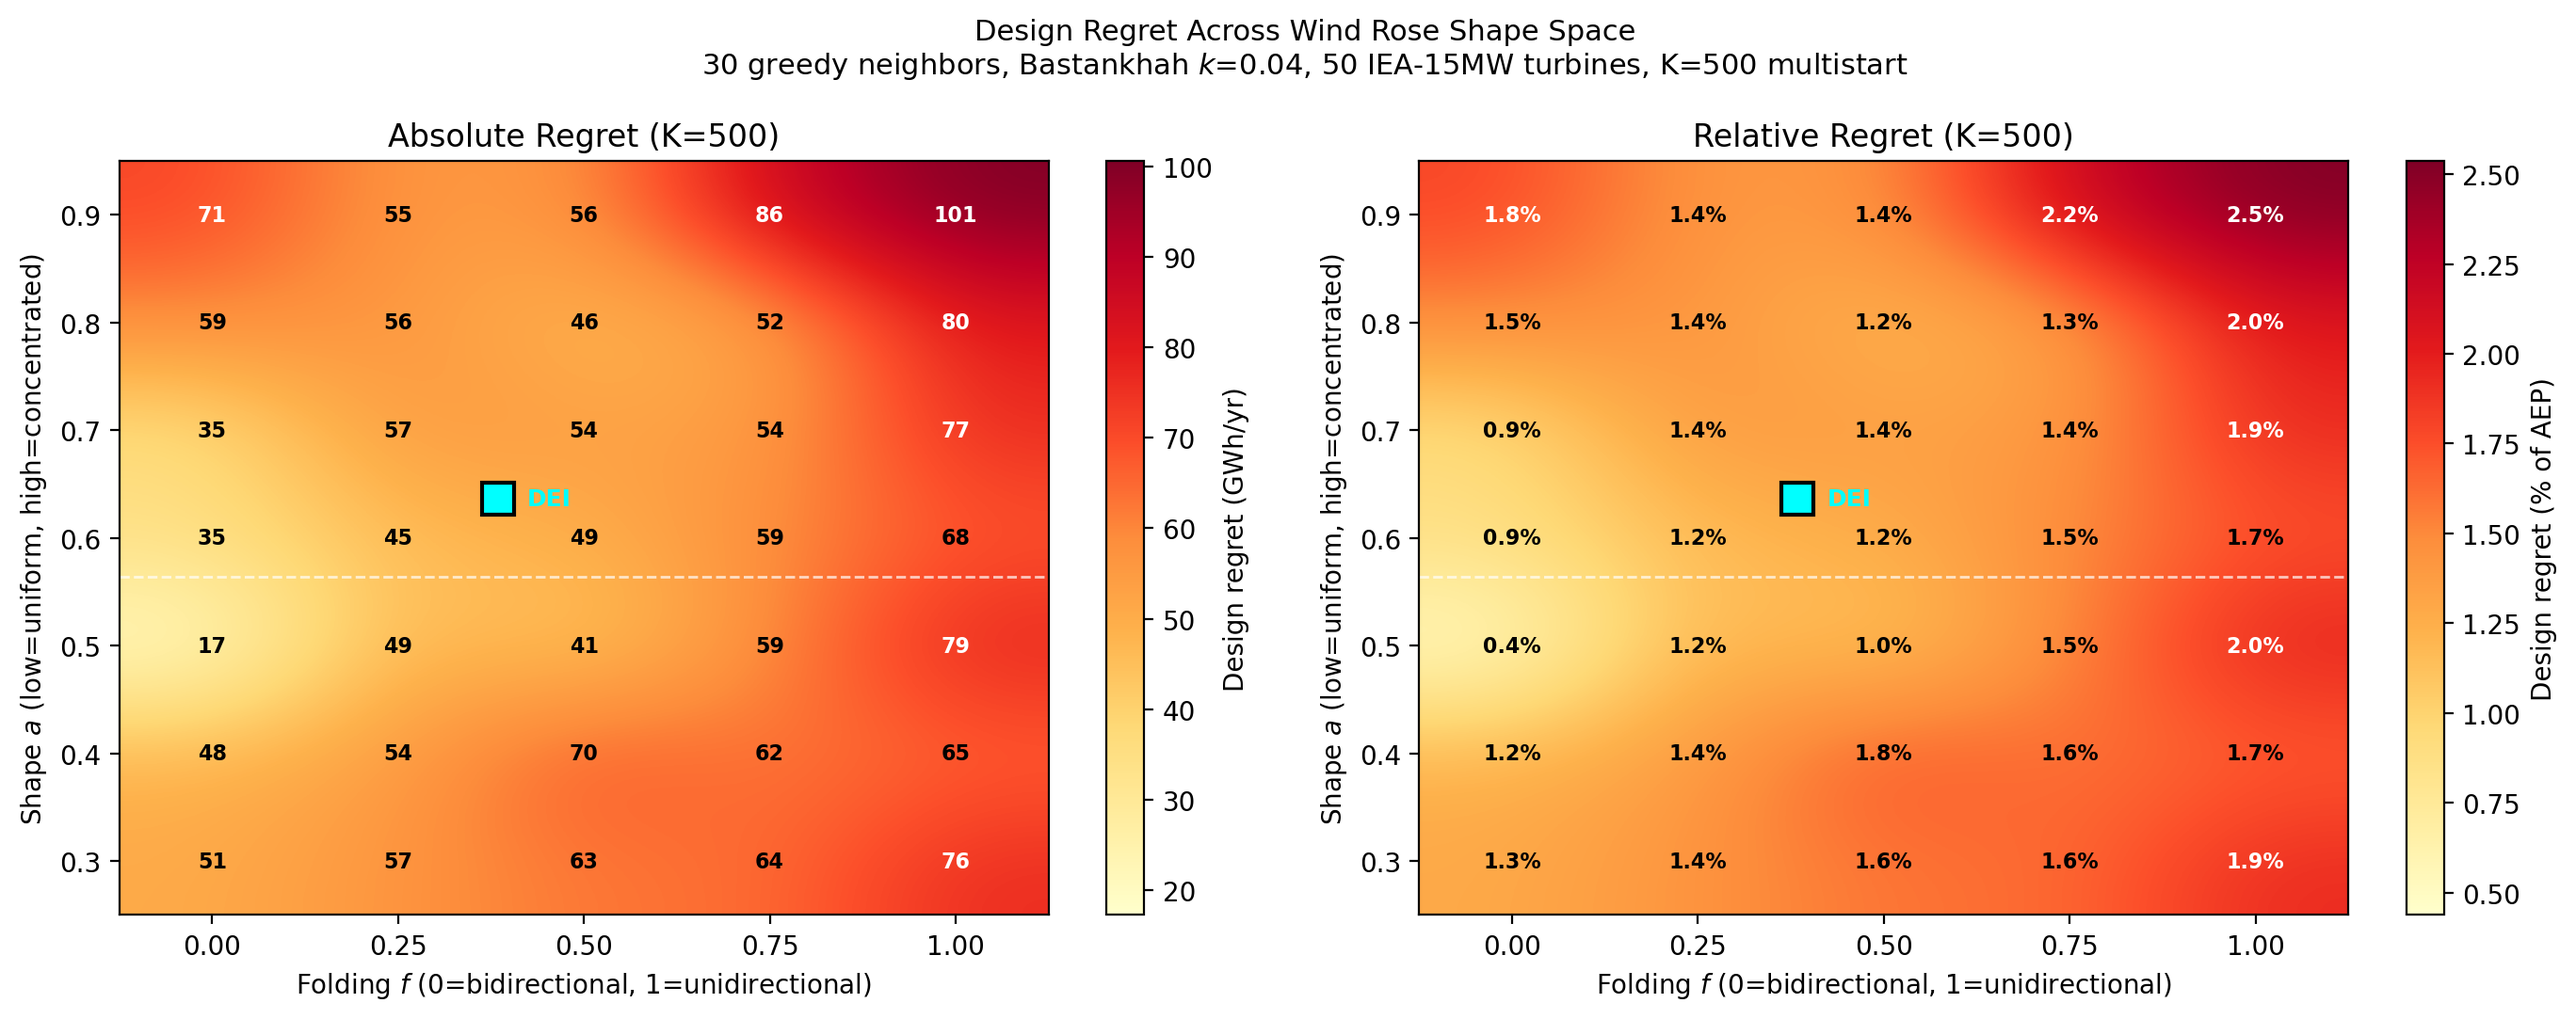
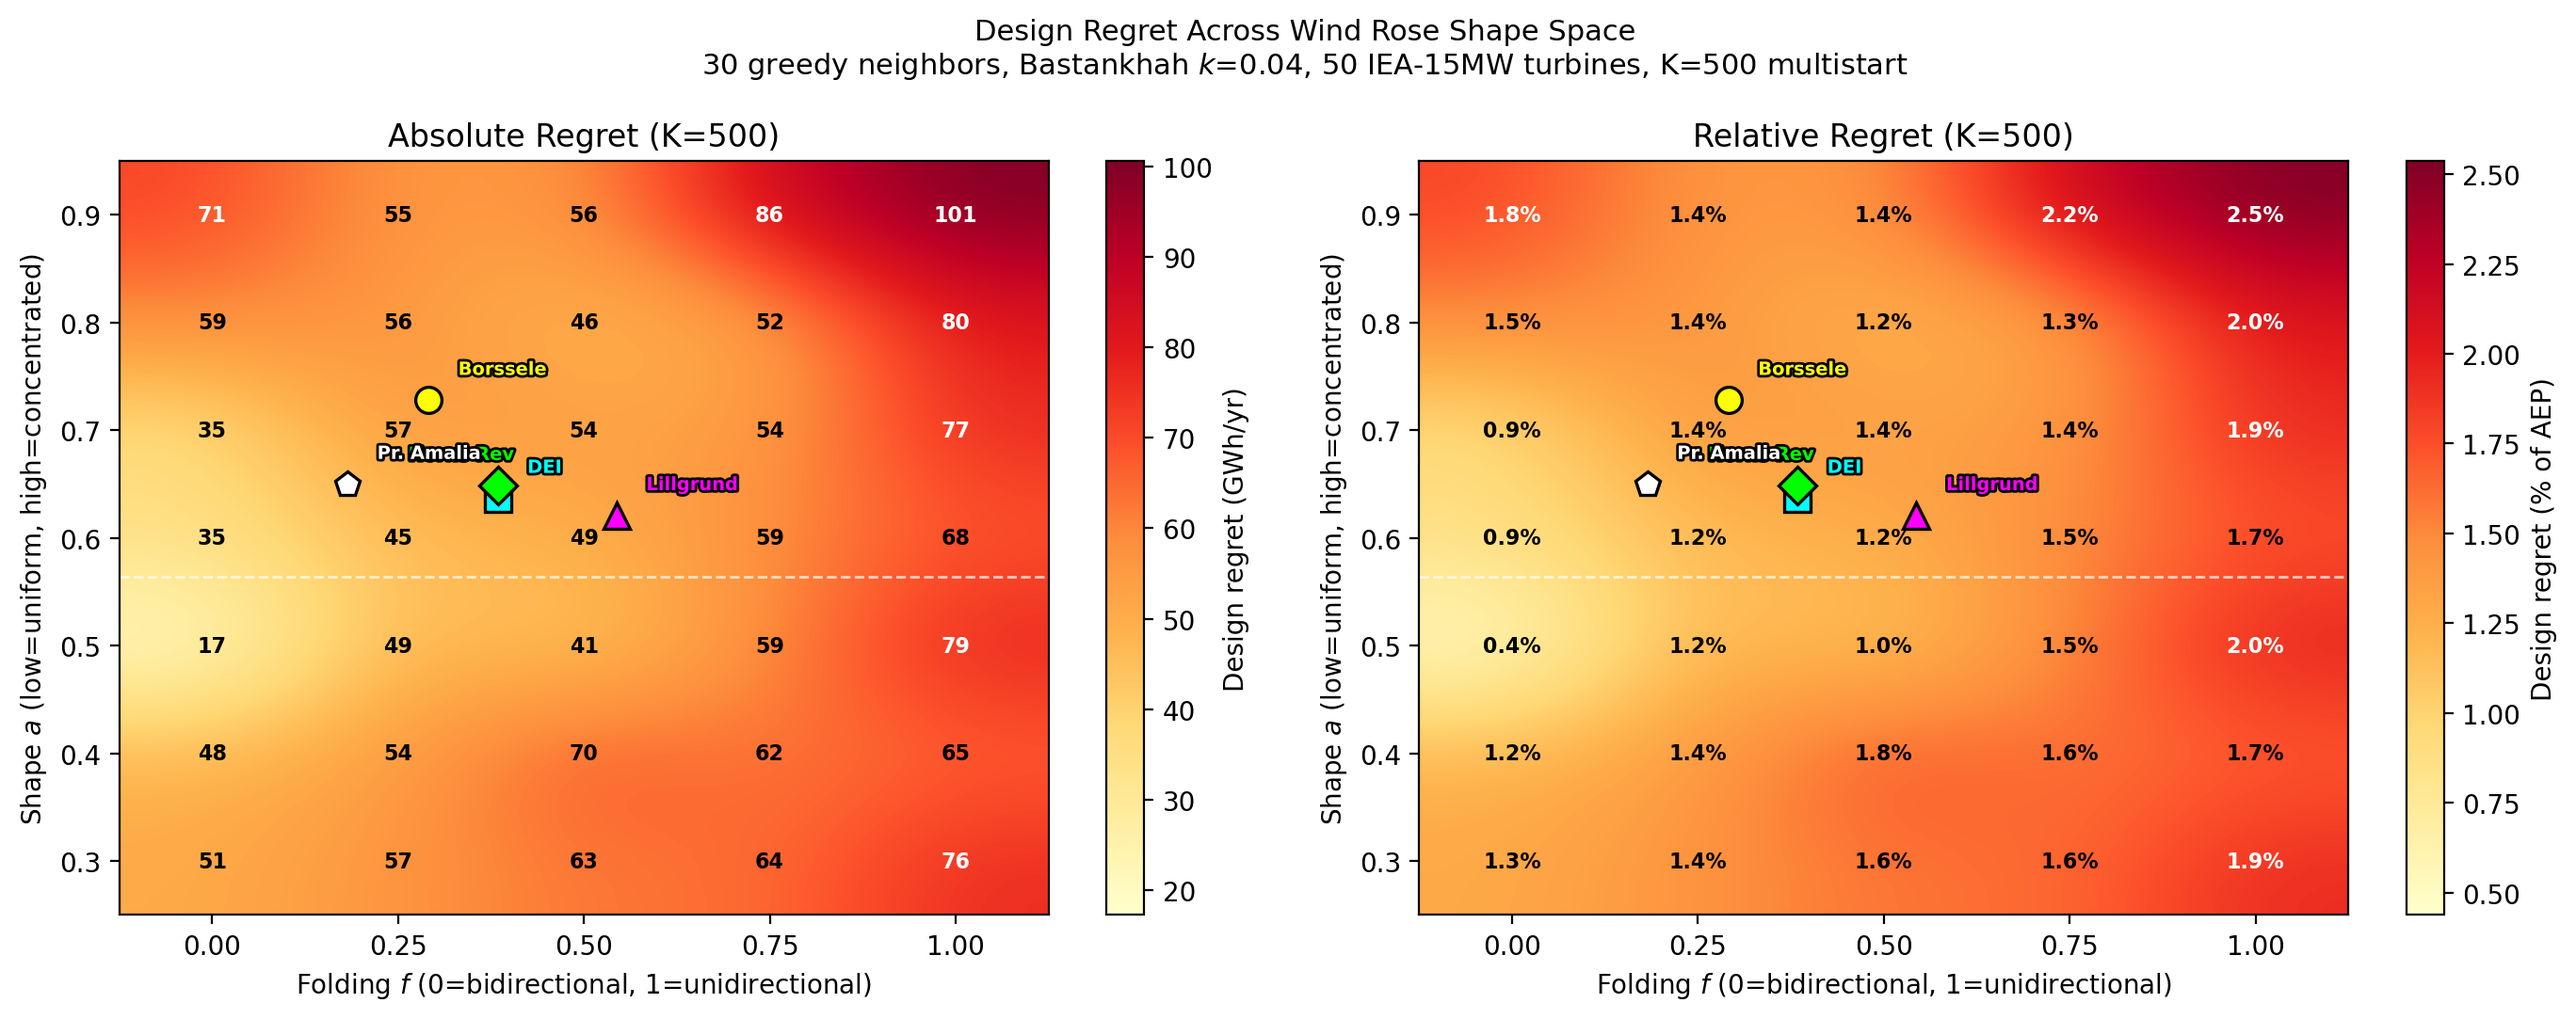
Add real North Sea site overlay, euro figures, site classification table
5 real sites fitted to (a,f) and plotted on heatmap: Horns Rev, Lillgrund,
Borssele, Princess Amalia, DEI. All in moderate-regret region.

Economic magnitude: 2.5% regret = ~7M EUR/yr = ~175M EUR over 25 years
for a 750 MW farm. Even 1% = 70M EUR lifetime.

Self-interested neighbor K=500 jobs launched (3 cases) on LUMI.

diff --git a/paper_v3/main.tex b/paper_v3/main.tex
@@ -187,7 +187,8 @@ Regret ranges from \SI{17.2}{GWh} (\SI{0.4}{\percent} of AEP) at $a = 0.5$, $f =
     \caption{Design regret across the wind rose shape space at $K = 500$.
     Left: absolute (\si{GWh/yr}).
     Right: relative (\si{\percent} of AEP).
-    Cyan square: fitted DEI wind rose ($a \approx 0.64$, $f \approx 0.38$).}
+    Markers show fitted parameters for real North Sea sites: DEI (cyan square), Horns Rev~1 (green diamond), Lillgrund (magenta triangle), Borssele (yellow circle), and Princess Amalia (white pentagon).
+    All real sites fall in the moderate-regret region of the shape space.}
     \label{fig:heatmap}
 \end{figure}
 
@@ -275,9 +276,42 @@ The qualitative directional pattern is robust---it is physically grounded and co
 
 \section{Discussion}\label{sec:discussion}
 
+\subsection{Real North Sea sites in the shape space}
+
+To ground the parametric results in real planning decisions, we fit the elliptical model to five North Sea offshore wind sites (Table~\ref{tab:sites}, Fig.~\ref{fig:heatmap}).
+All five sites fall in the moderate-regret region of the $(a, f)$ space, with $a \in [0.62, 0.73]$ and $f \in [0.18, 0.54]$.
+No operational North Sea site in our sample reaches the high-regret corner ($a > 0.8$, $f > 0.75$), though this does not preclude future lease areas---particularly in the southern North Sea---from doing so.
+
+\begin{table}[t]
+    \centering
+    \caption{Fitted elliptical wind rose parameters for North Sea offshore sites.
+    Data sources: Horns Rev~1 and Lillgrund from PyWake; Borssele from IEA Wind Task~55 ROWP; Princess Amalia from the python-windrose package; DEI from 10-year NEWA timeseries.}
+    \label{tab:sites}
+    \begin{tabular}{lcccl}
+        \toprule
+        Site & $a$ & $f$ & $\theta_\text{prev}$ & $R^2$ \\
+        \midrule
+        Horns Rev 1 (DK)       & 0.649 & 0.384 & \SI{240}{\degree} & 0.82 \\
+        Lillgrund (SE)          & 0.621 & 0.544 & \SI{236}{\degree} & 0.77 \\
+        Borssele (NL)           & 0.728 & 0.291 & \SI{240}{\degree} & 0.87 \\
+        Princess Amalia (NL)    & 0.650 & 0.182 & \SI{210}{\degree} & 0.49 \\
+        Danish Energy Island    & 0.637 & 0.384 & \SI{251}{\degree} & 0.84 \\
+        \bottomrule
+    \end{tabular}
+\end{table}
+
+The sites cluster in the $(a, f)$ space because North Sea wind climates share a common driver: Atlantic weather systems producing dominant southwesterly winds.
+The spread in $f$ (\numrange{0.18}{0.54}) reflects varying degrees of bidirectionality, with Princess Amalia showing the most bidirectional character ($f = 0.18$, lowest regret risk) and Lillgrund the most unidirectional ($f = 0.54$, highest regret risk among the five).
+
 \subsection{Implications for North Sea cluster development}
 
 The six-fold variation in design regret across wind rose shape has direct implications for the North Sea's emerging cluster framework.
+
+\paragraph{Economic magnitude.}
+For a representative \SI{750}{MW} farm (\num{50}$\times$\SI{15}{MW}), design regret of \SI{2.5}{\percent} corresponds to $\sim$\SI{100}{GWh/yr}.
+At a contract-for-difference strike price of \SI{70}{EUR/MWh}, this amounts to $\sim$\SI{7}{M EUR/yr}, or $\sim$\SI{175}{M EUR} over a 25-year operational lifetime.
+Even at the moderate regret levels observed for real North Sea sites ($\sim$\SI{1}{\percent}), the lifetime cost exceeds \SI{70}{M EUR}---comparable to the cost of a single turbine foundation.
+By contrast, the marginal cost of running a neighbor-aware layout optimization is negligible relative to project CAPEX.
 
 \paragraph{German Bight and southern North Sea.}
 Sites with strongly unidirectional southwesterly winds sit in the high-regret region ($f \gtrsim 0.75$).

diff --git a/scripts/generate_paper_v2_figures.py b/scripts/generate_paper_v2_figures.py
@@ -8,6 +8,7 @@ import numpy as np
 import matplotlib
 matplotlib.use("Agg")
 import matplotlib.pyplot as plt
+import matplotlib.patheffects
 from pathlib import Path
 
 D = 240.0
@@ -96,11 +97,23 @@ for ax, data, cblabel, title, fmt in [
     # Uniform reference
     a_unif = 1 / np.sqrt(np.pi)
     ax.axhline(a_unif, color="white", ls="--", lw=1, alpha=0.7)
-    # DEI marker (fitted: a=0.64, f=0.38)
-    ax.plot(0.384, 0.637, "s", color="cyan", markersize=12,
-            markeredgecolor="black", markeredgewidth=1.5, zorder=10)
-    ax.text(0.384 + 0.04, 0.637, "DEI", fontsize=9, fontweight="bold",
-            color="cyan", va="center")
+    # Real North Sea sites overlay
+    real_sites = [
+        ("DEI", 0.384, 0.637, "cyan", "s"),
+        ("Horns Rev", 0.384, 0.649, "lime", "D"),
+        ("Lillgrund", 0.544, 0.621, "magenta", "^"),
+        ("Borssele", 0.291, 0.728, "yellow", "o"),
+        ("Pr. Amalia", 0.182, 0.650, "white", "p"),
+    ]
+    for name, f_site, a_site, color, marker in real_sites:
+        ax.plot(f_site, a_site, marker, color=color, markersize=10,
+                markeredgecolor="black", markeredgewidth=1.2, zorder=10)
+        # Offset labels to avoid overlap
+        dx = 0.04 if name != "Horns Rev" else -0.12
+        dy = 0.02 if name != "Horns Rev" else 0.02
+        ax.text(f_site + dx, a_site + dy, name, fontsize=7, fontweight="bold",
+                color=color, va="bottom",
+                path_effects=[matplotlib.patheffects.withStroke(linewidth=2, foreground="black")])
 
 fig.suptitle("Design Regret Across Wind Rose Shape Space\n"
              "30 greedy neighbors, Bastankhah $k$=0.04, 50 IEA-15MW turbines, K=500 multistart",
